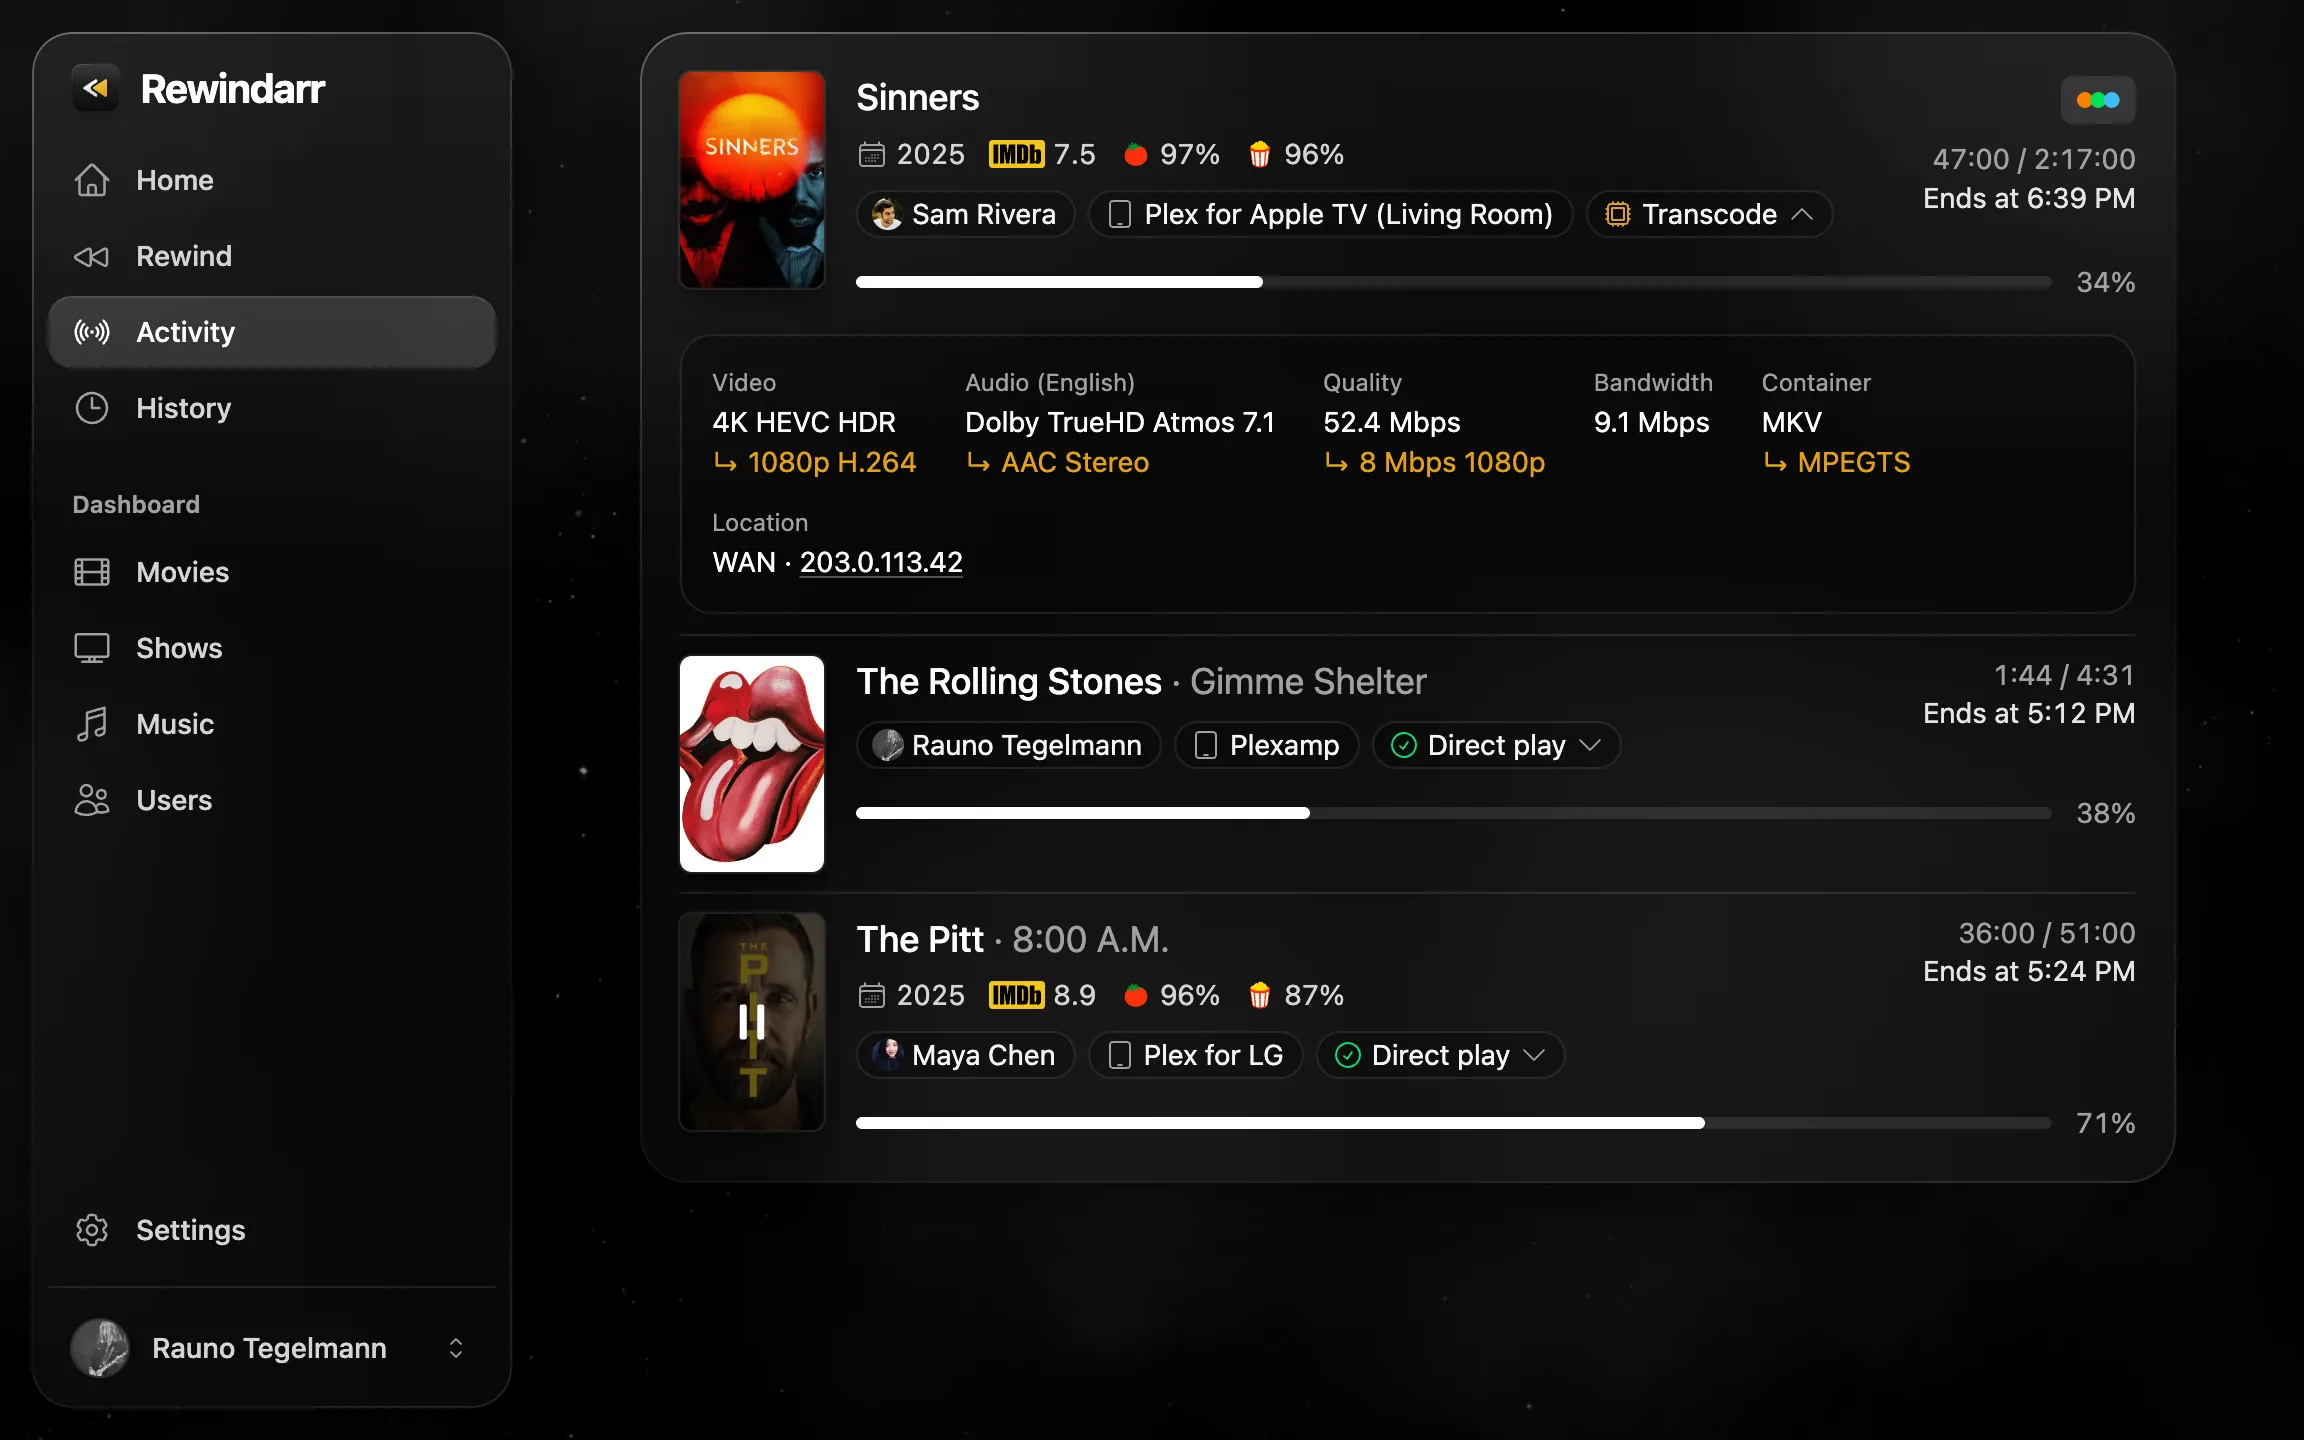
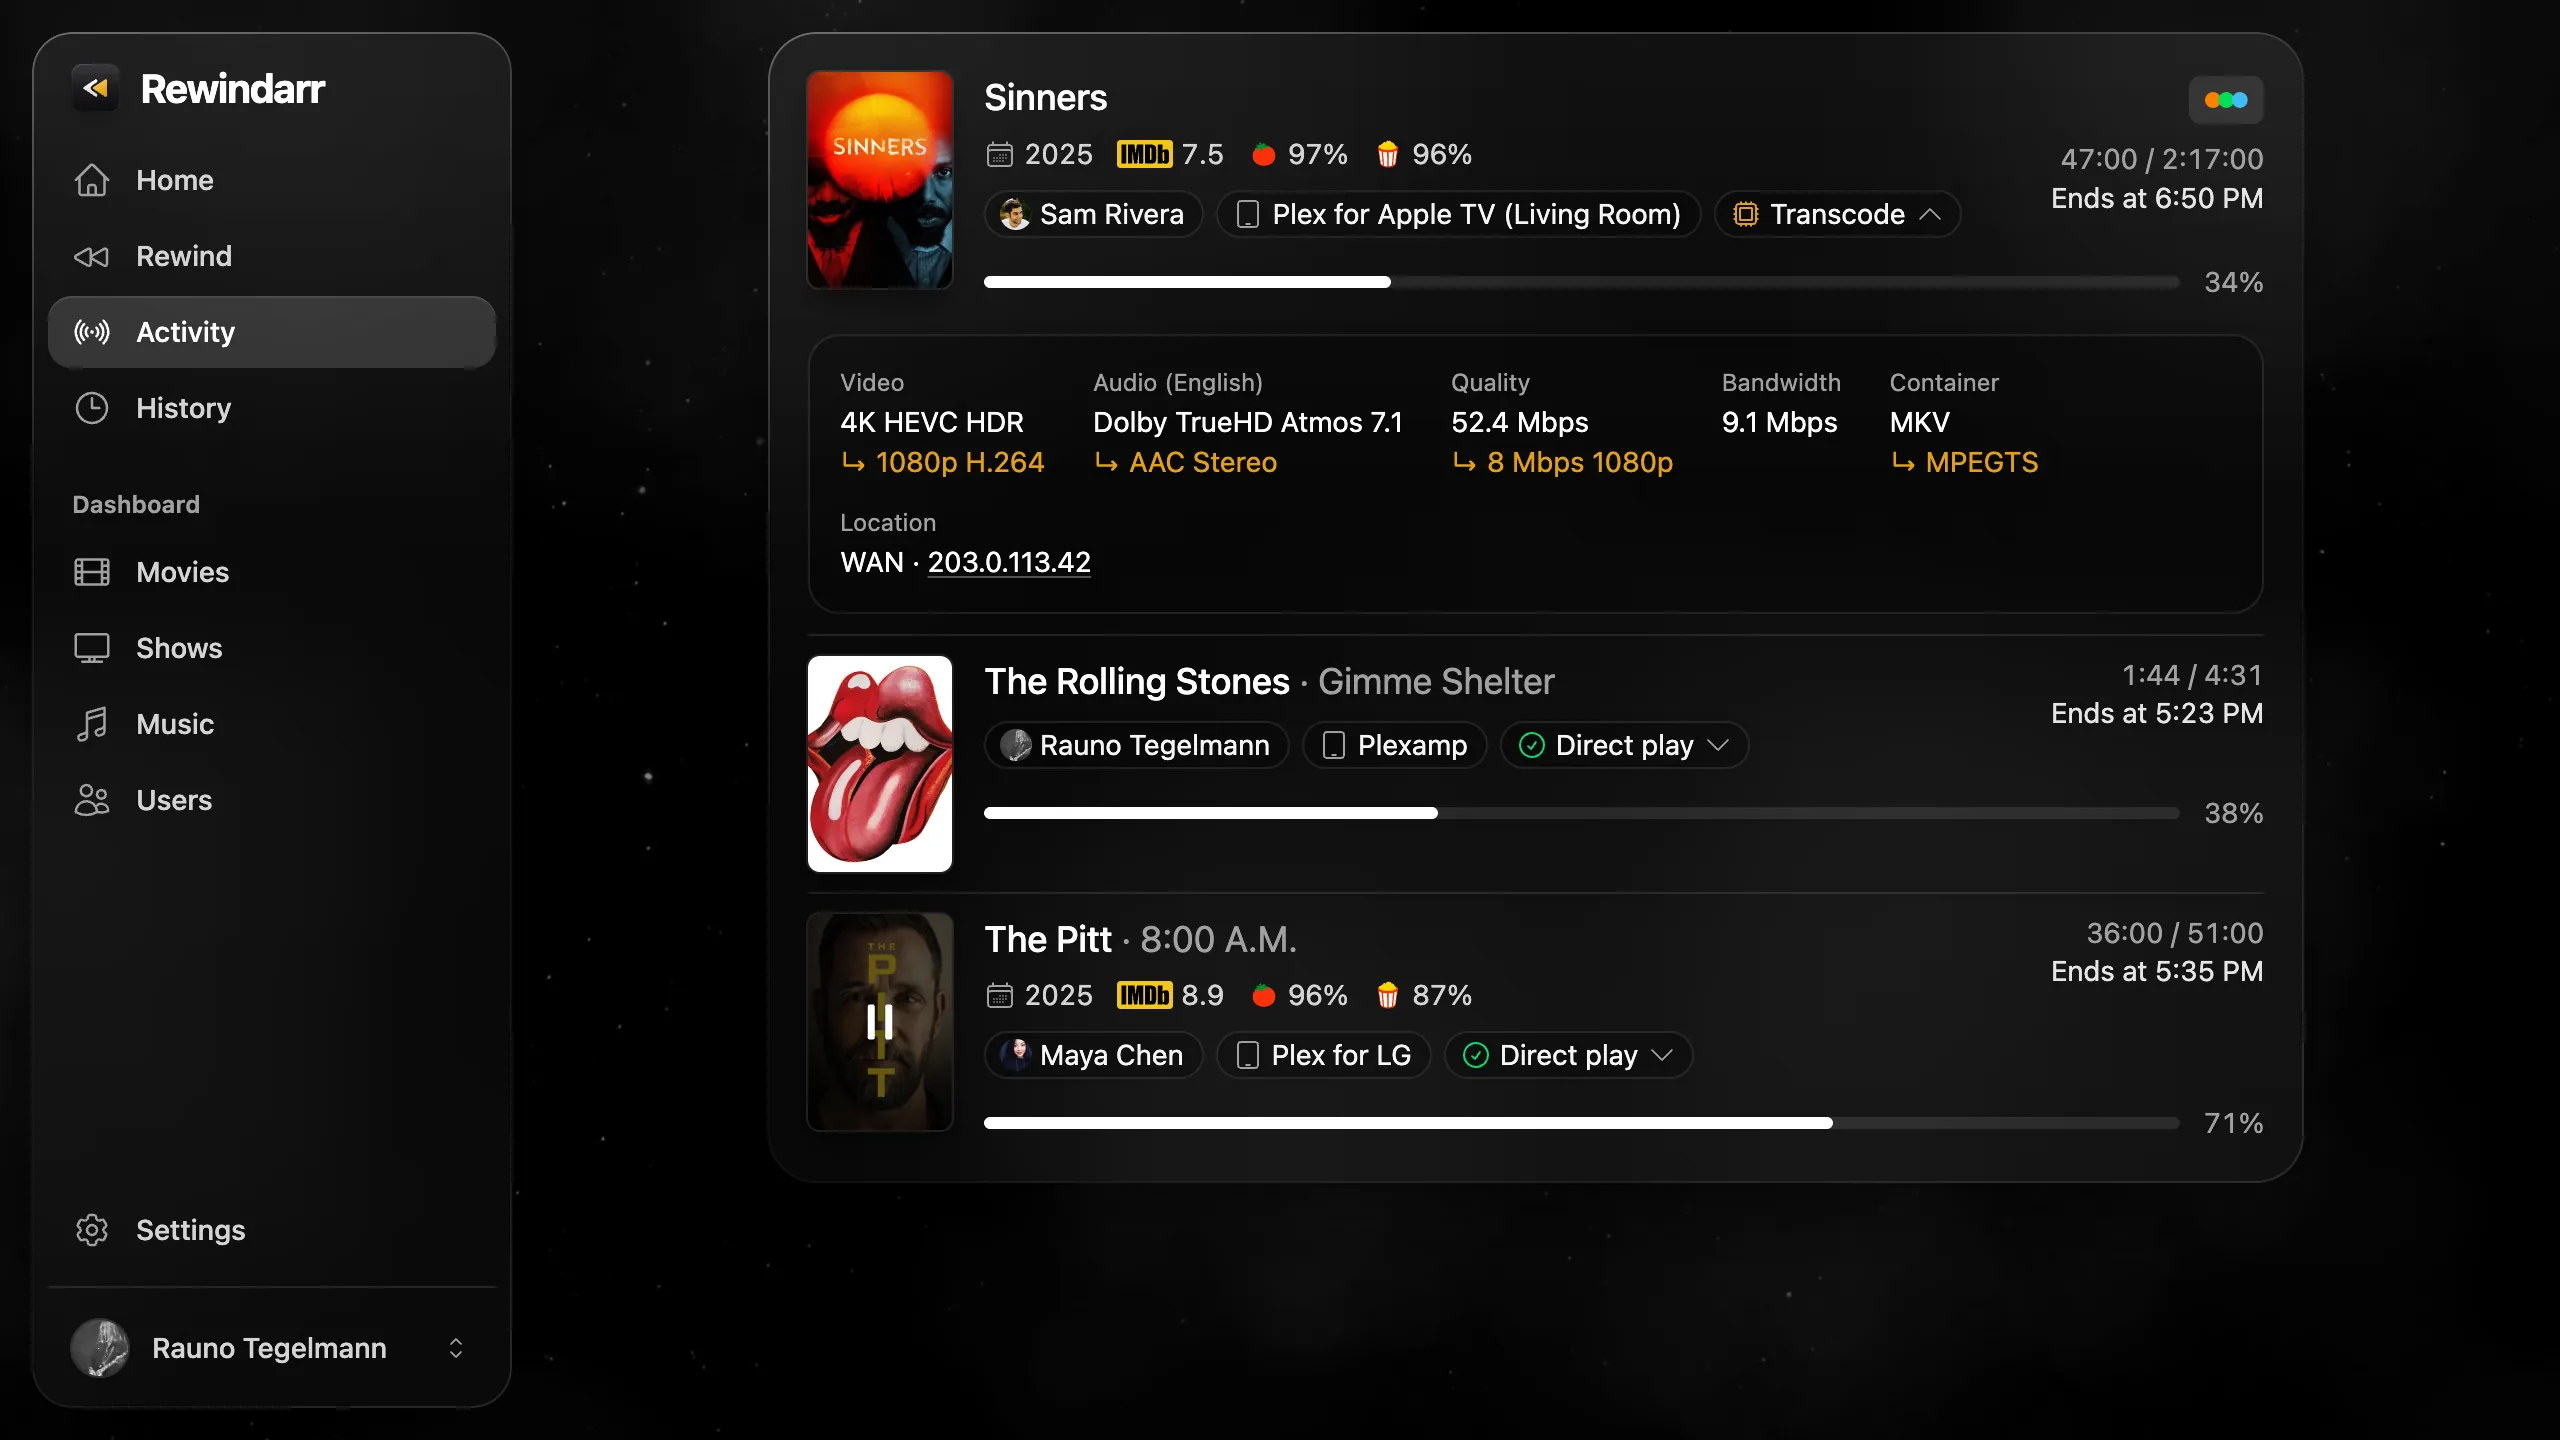
docs(readme): widen the screenshots and show the time breakdown in the rewind

diff --git a/CONTRIBUTING.md b/CONTRIBUTING.md
@@ -115,7 +115,7 @@ The screenshots in `.github/screenshots` use made-up data, so they don't show an
    }
    ```
 
-3. Take the screenshots in a 1152×720 window at 2× scale, with the Next.js dev badge hidden, and save them as WebP:
+3. Take the screenshots in a 1280×720 window at 2× scale, with the Next.js dev badge hidden, and save them as WebP:
 
    ```bash
    cwebp -q 82 -m 6 home.png -o .github/screenshots/home.webp
